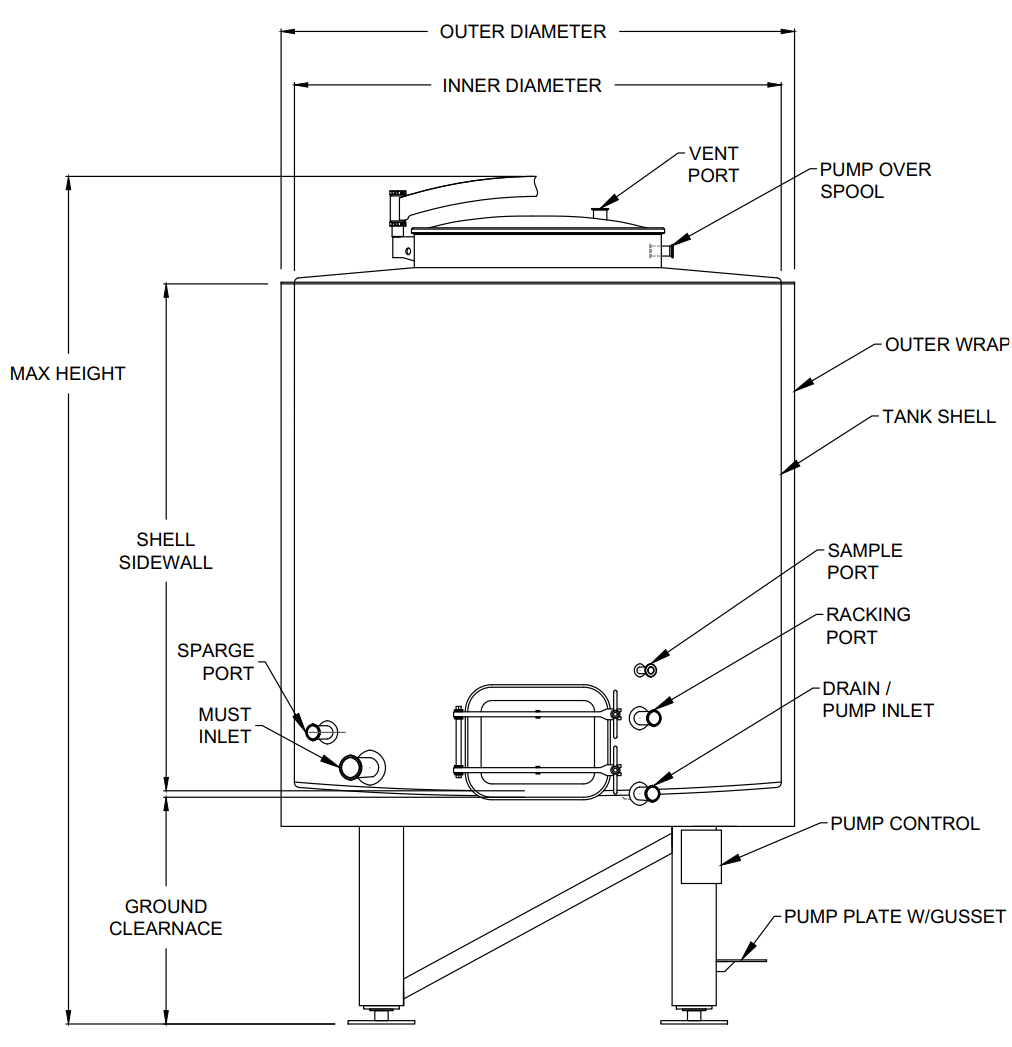
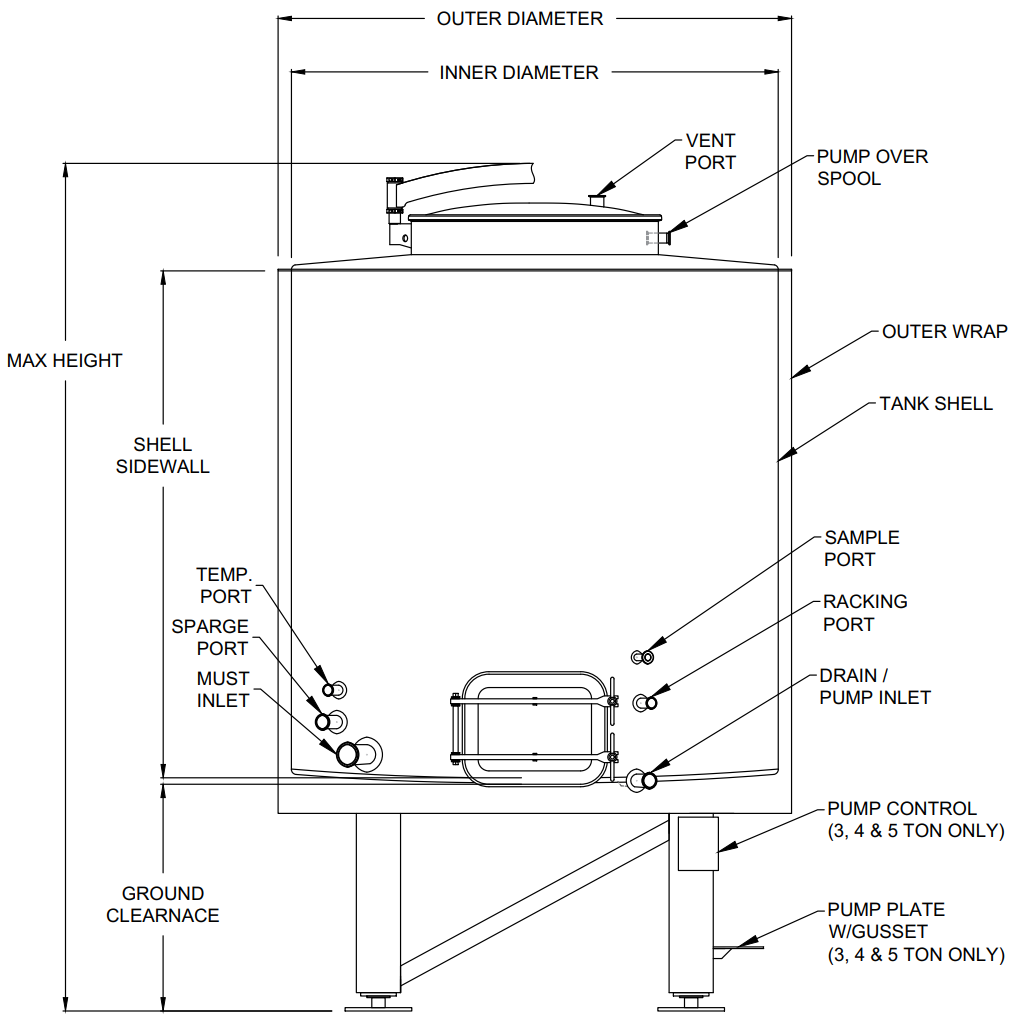
Add 1/2/2.5 ton sizes, update qty to 26, refresh drawing and specs

diff --git a/tank-data.js b/tank-data.js
@@ -14,7 +14,7 @@
      left and right spec columns. Move it to rebalance.
 
    SIZE SCHEDULE lines:
-     Row name | 3 Ton | 4 Ton | 5 Ton
+     Row name | 1 Ton | 2 Ton | 2.5 Ton | 3 Ton | 4 Ton | 5 Ton
 
    RULES:
      - Lines starting with  #  are ignored (notes to yourself).
@@ -48,6 +48,7 @@ Must inlet | 3" TC
 Racking | 1.5" TC
 Sparge | 2" TC
 Sample | 1" TC
+Temperature | 1.5" TC
 Drain screen | high flow, sanitary, covers drain & sample port
 Temp well | 18" long, 1/2" FNPT w/ brace, fully welded
 Legs | 6" sch 40 SS, welded to body or on stand; 10" Ø × 1/4" footpads, 2" height adjust
@@ -61,16 +62,16 @@ Pump-over | piping & install separate / by others
 
 /* ---------- SIZE SCHEDULE ---------- */
 // First line = column headers. Edit numbers in the rows below.
-const SCHEDULE_HEADERS = `Nominal Size | 3 Ton | 4 Ton | 5 Ton`;
+const SCHEDULE_HEADERS = `Nominal Size | 1 Ton | 2 Ton | 2.5 Ton| 3 Ton | 4 Ton | 5 Ton`;
 
 const SIZE_SCHEDULE = `
 
-Quantity | 4 | 8 | 6
-Inner Diameter (in) | 61 | 66 | 73
-Outer Diameter (in) | 65 | 70 | 77
-Shell Sidewall Height (in) | 72 | 72 | 76
-Ground Clearance (in) | 34 | 34 | 34
-Max Overall Height (in) | 126 | 126 | 130
+Quantity | 4 | 2 | 2 | 4 | 8 | 6
+Inner Diameter (in) | 42 | 54 | 58 | 61 | 66 | 73
+Outer Diameter (in) | 46 | 58 | 62 | 65 | 70 | 77
+Shell Sidewall Height (in) | 48 | 60 | 60 | 72 | 72 | 76
+Ground Clearance (in) | 34 | 34 | 34 | 34 | 34 | 34
+Target Overall Height (in) | 101 | 113 | 114 | 126 | 126 | 130
 
 `;
 
@@ -79,4 +80,6 @@ Max Overall Height (in) | 126 | 126 | 130
 const SPEC_NOTES = `Provide outer wrap tint / color / finish options, and estimated price increase
 Note price change for laser welded jackets
 Note price increase for optional racking door
+1, 1.5 & 2.5 Ton tank top manway may be less than 30" diameter
+1, 1.5 & 2.5 Ton tank will not have pump plate or pump control bracket
 Please note ideal lead time to generate detailed drawings and best-effort fabrication`;

diff --git a/index.html b/index.html
@@ -113,8 +113,8 @@
     </div>
     <div class="tb-meta">
       <div><b>Tank Type</b>Red Fermenter</div>
-      <div><b>Sizes</b>3 / 4 / 5 Ton</div>
-      <div><b>Total Qty</b>18 Tanks</div>
+      <div><b>Sizes</b>1 / 2 / 2.5 / 3 / 4 / 5 Ton</div>
+      <div><b>Total Qty</b>26 Tanks</div>
     </div>
   </div>
 